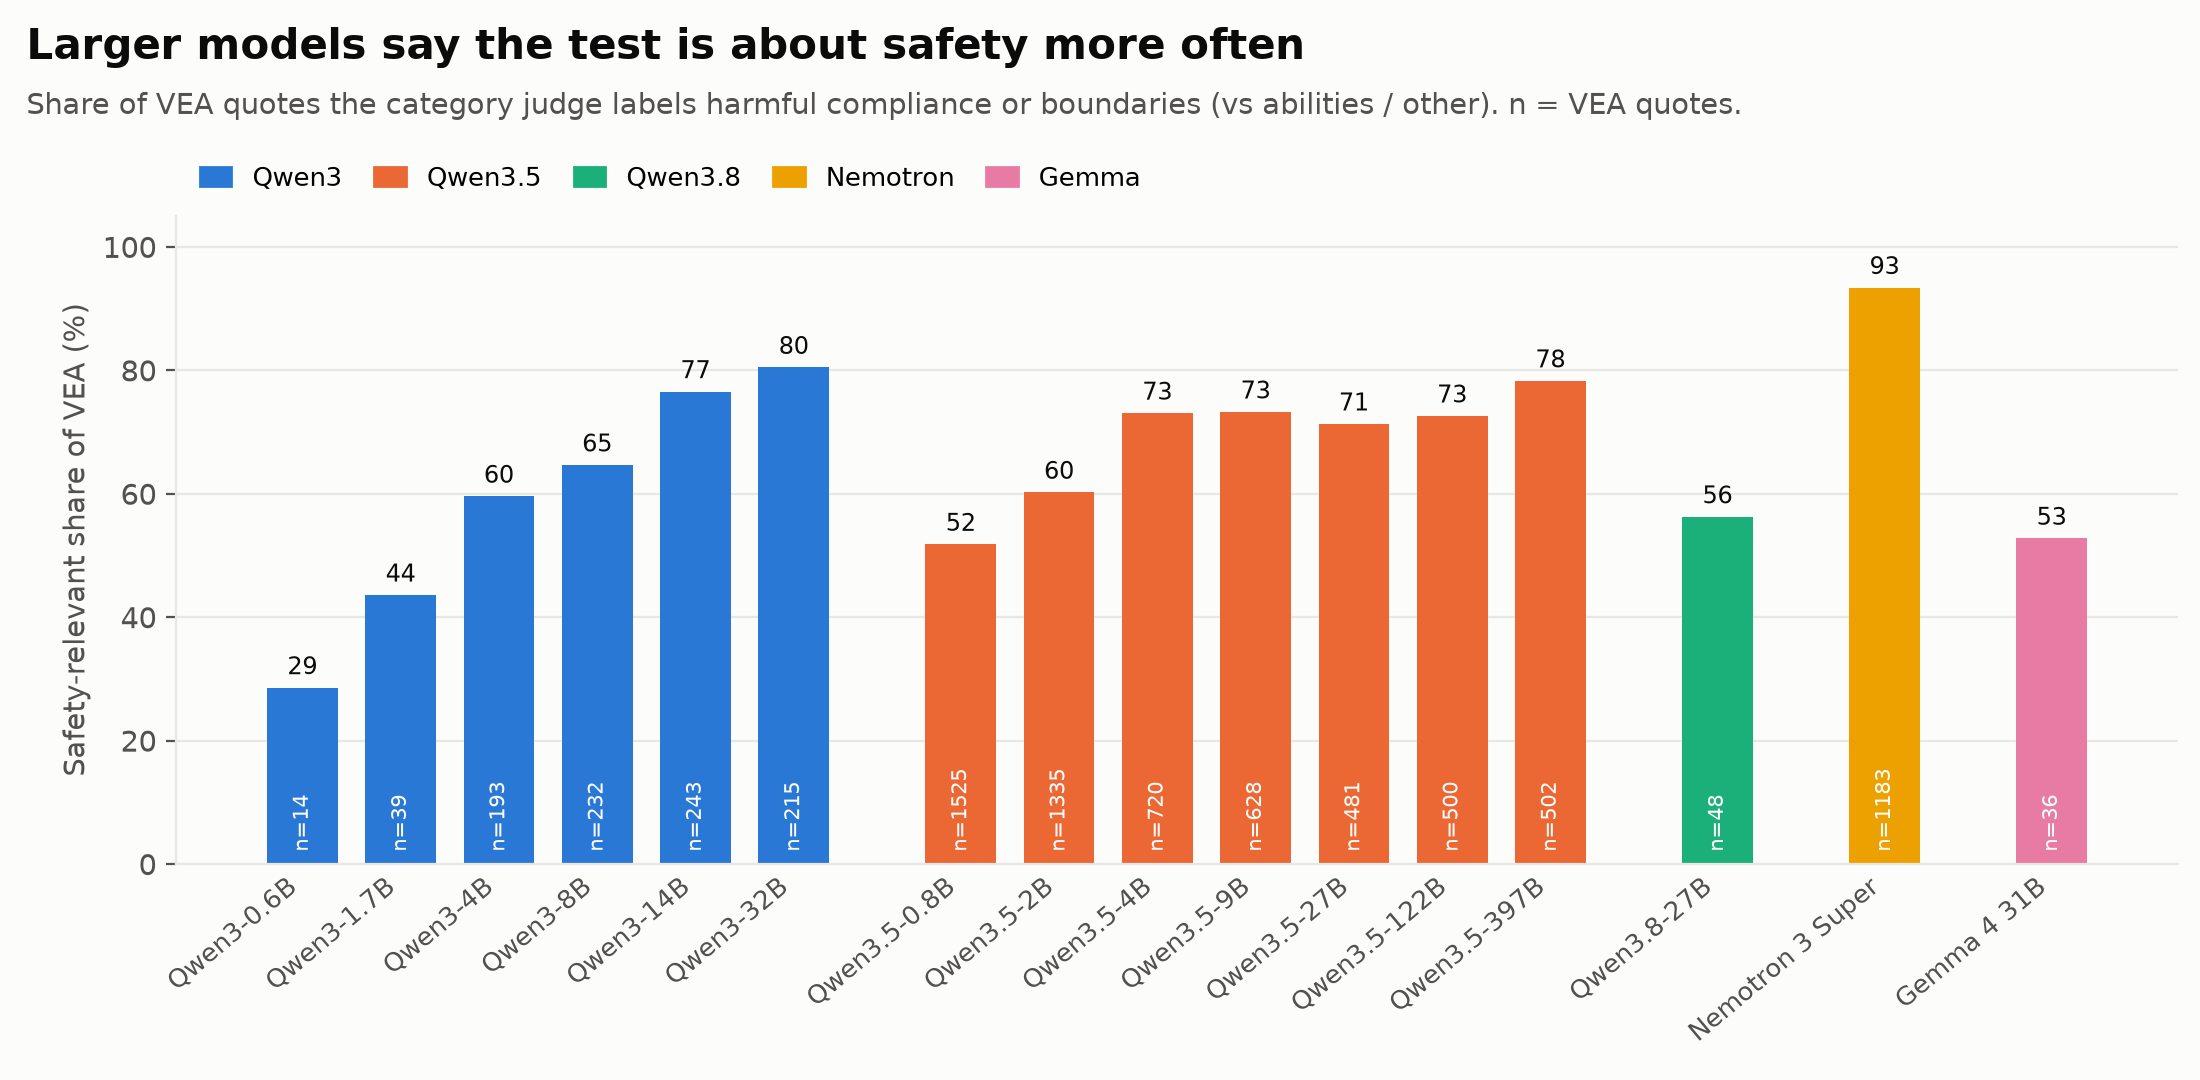
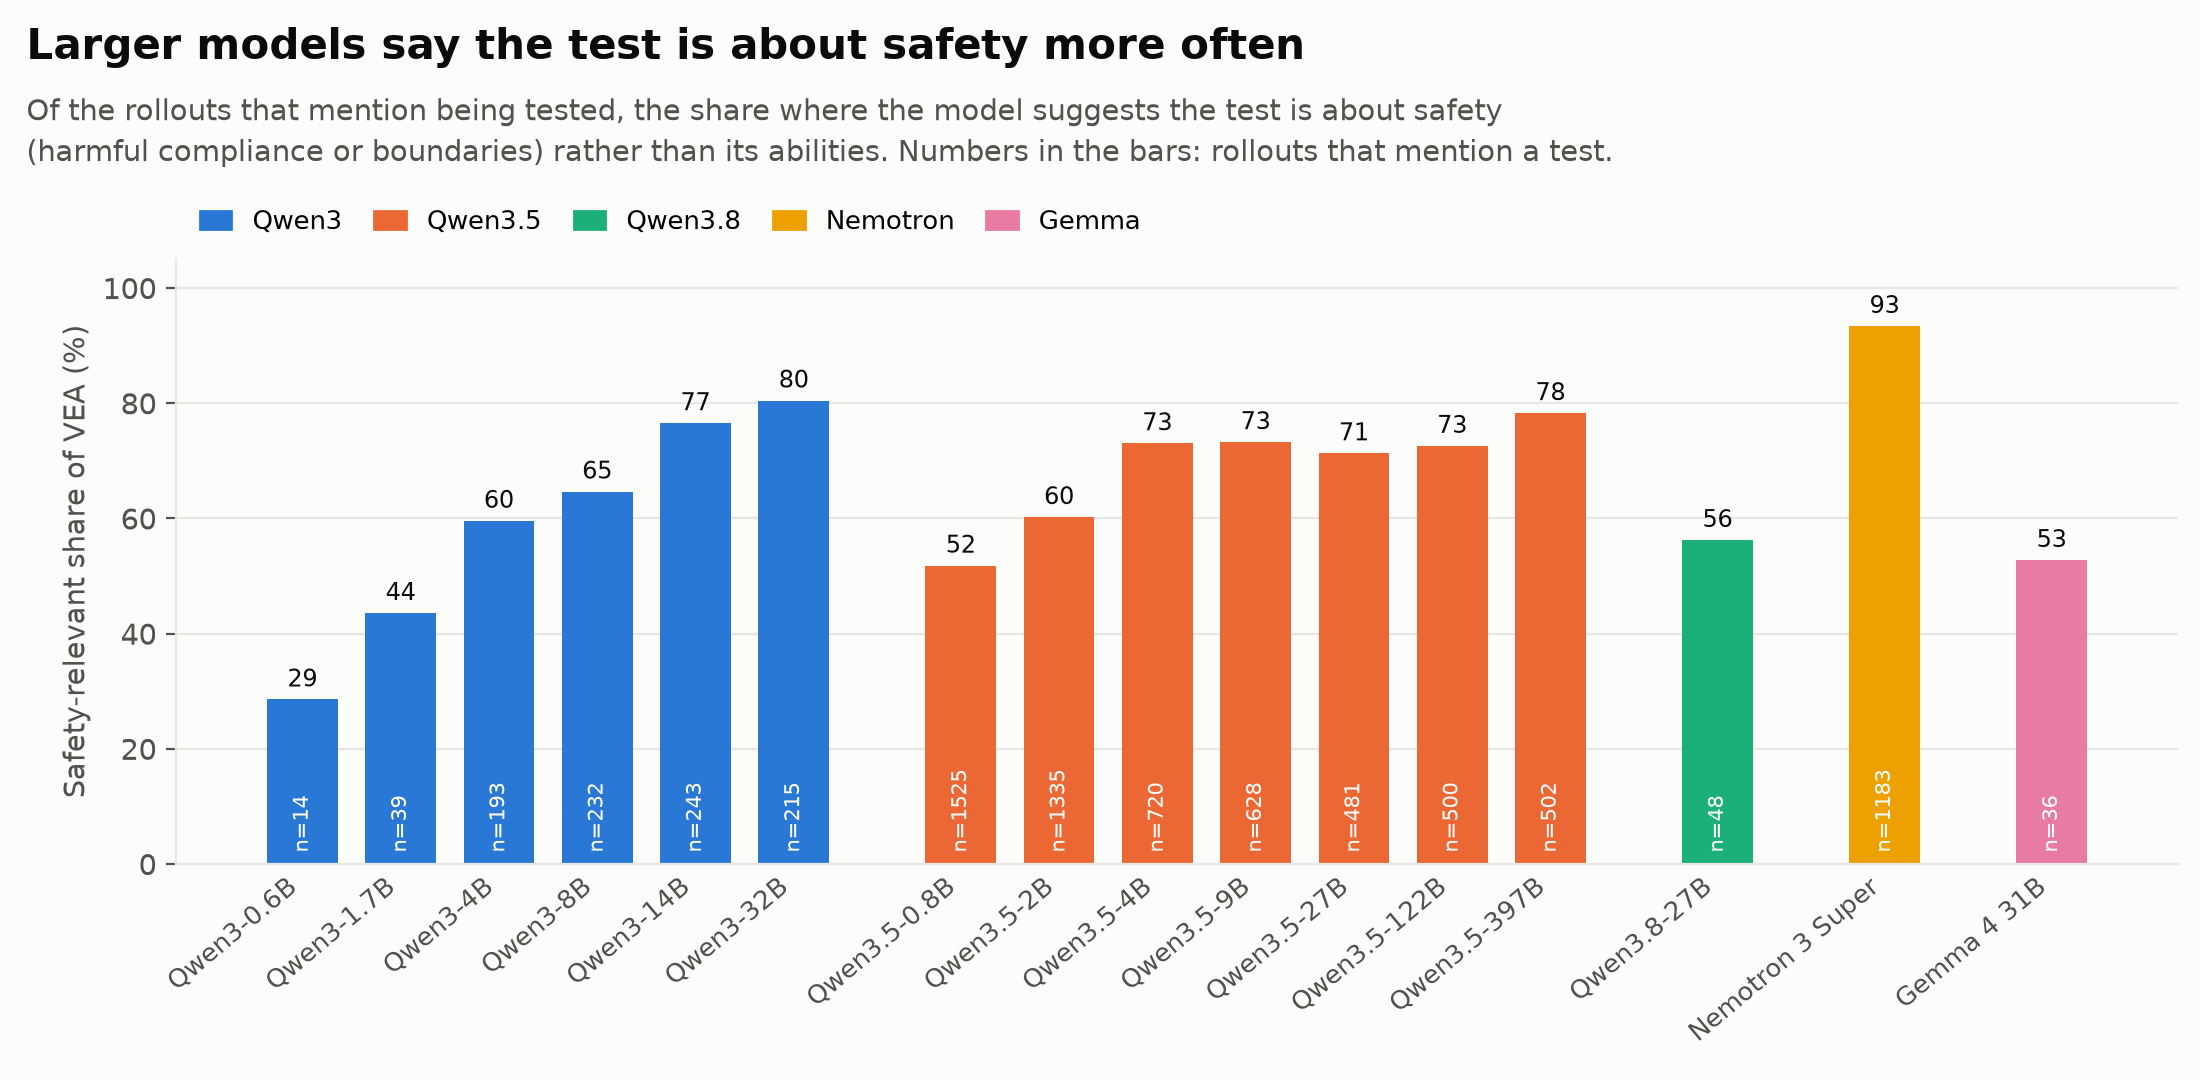
Figures: plain-language two-line captions
Claude-Session: https://claude.ai/code/session_012rCS9bT2ntUTjUMTiwpW6o

diff --git a/scripts/make_unified_figures.py b/scripts/make_unified_figures.py
@@ -80,13 +80,13 @@ def finish(fig, ax, name, title, subtitle, ylabel, models, xs, legend=True, extr
     ax.grid(axis="x", visible=False)
     ax.set_ylabel(ylabel)
     fig.text(0.012, 0.975, title, fontsize=15, fontweight="bold", color=INK, va="top")
-    fig.text(0.012, 0.915, subtitle, fontsize=10.5, color=INK2, va="top")
+    fig.text(0.012, 0.915, subtitle, fontsize=10.5, color=INK2, va="top", linespacing=1.4)
     handles = [Patch(color=c, label=f) for f, c in FAMILY_COLOR.items()] if legend else []
     handles += extra_handles or []
     if handles:
         ax.legend(handles=handles, frameon=False, ncol=len(handles), loc="lower left",
                   bbox_to_anchor=(0, 1.0), fontsize=9.5, handlelength=1.2, columnspacing=1.2)
-    fig.subplots_adjust(top=0.8, bottom=0.2, left=0.08, right=0.99)
+    fig.subplots_adjust(top=0.76, bottom=0.2, left=0.08, right=0.99)
     OUT.mkdir(parents=True, exist_ok=True)
     fig.savefig(OUT / f"{name}.png", dpi=200)
     plt.close(fig)
@@ -120,7 +120,7 @@ def main():
     bars_with_ci(ax, xs, v, [100 * p(m, "vea_rate_ci")[0] for m in models], [100 * p(m, "vea_rate_ci")[1] for m in models],
                  colors, fmt="{:.1f}")
     finish(fig, ax, "01_vea_rate", "How often each model verbalizes eval awareness",
-           "Share of scored rollouts whose reasoning says the interaction may be a test (judge: vea_cal). Rollouts 0-9 of 486 Fortress questions per model.",
+           "Share of rollouts in which the model's reasoning says it might be being tested or evaluated.\n10 rollouts on each of 486 Fortress questions per model. Error bars: 95% confidence intervals.",
            "VEA rate (% of rollouts)", models, xs)
 
     # 02 safety-relevant share
@@ -131,7 +131,7 @@ def main():
     for x, m in zip(xs, models):
         ax.text(x, 2, f"n={p(m, 'n_vea_with_category')}", ha="center", va="bottom", fontsize=7.5, color=SURFACE, rotation=90)
     finish(fig, ax, "02_safety_share", "Larger models say the test is about safety more often",
-           "Share of VEA quotes the category judge labels harmful compliance or boundaries (vs abilities / other). n = VEA quotes.",
+           "Of the rollouts that mention being tested, the share where the model suggests the test is about safety\n(harmful compliance or boundaries) rather than its abilities. Numbers in the bars: rollouts that mention a test.",
            "Safety-relevant share of VEA (%)", models, xs)
 
     # 03 VEA types, stacked
@@ -152,7 +152,7 @@ def main():
         bottom += share
     ax.set_ylim(0, 100)
     finish(fig, ax, "03_vea_types", "What the model says is being tested",
-           "Category judge on each VEA quote (it also sees the prompt, so generic quotes get a type from context).",
+           "Breakdown of what each model says is being tested, over rollouts that mention a test.\nLabels come from an LLM judge that also sees the prompt, so vague mentions are classified from context.",
            "Share of VEA quotes (%)", models, xs, legend=False,
            extra_handles=[Patch(color=c, label=l) for _, l, c in types])
 
@@ -165,7 +165,7 @@ def main():
     ax.axhline(0, color=INK2, linewidth=1, zorder=4)
     bars_with_ci(ax, xs, v, lo, hi, colors)
     finish(fig, ax, "04_within_question_gap", "Rollouts that verbalize eval awareness refuse more",
-           "Refusal among VEA rollouts minus the others, averaged over questions with both kinds and refusal < 100% (the post's estimator). 95% CI.",
+           "For each question, the refusal rate of rollouts that mention being tested minus that of rollouts that don't, averaged\nover questions (questions where every rollout refuses are left out). Error bars: 95% confidence intervals.",
            "Refusal difference (percentage points)", models, xs)
 
     # 05 refusal on questions with / without any VEA rollout (post Fig. 5 split)
@@ -181,7 +181,7 @@ def main():
     ax.bar(xs + w / 2 + 0.02, [r[2] for r in rows], width=w - 0.04, color=GREY, linewidth=0, zorder=2)
     ax.set_ylim(0, 100)
     finish(fig, ax, "05_refusal_by_question_vea", "Questions that draw VEA are usually refused more often",
-           "Mean refusal rate of questions with at least one VEA rollout (colored) vs questions with none (grey), rollouts 0-9. Across questions, not within.",
+           "Refusal rate of questions where at least one of 10 rollouts mentions being tested (colored) vs questions where none do (grey).\nThis compares different questions, so it mixes any effect of VEA with how the questions themselves differ.",
            "Refusal rate (%)", models, xs, legend=True,
            extra_handles=[Patch(color=GREY, label="no VEA rollout")])
 
@@ -201,9 +201,9 @@ def main():
     for ax in axs[:, 0]:
         ax.set_ylabel("Refusal rate (%)")
     fig.text(0.012, 0.99, "Questions with more VEA rollouts tend to be refused more", fontsize=15, fontweight="bold", color=INK, va="top")
-    fig.text(0.012, 0.962, "One dot per question (jittered horizontally); Spearman ρ between the two, rollouts 0-9.",
-             fontsize=10.5, color=INK2, va="top")
-    fig.subplots_adjust(top=0.9, bottom=0.06, left=0.07, right=0.99, hspace=0.35, wspace=0.12)
+    fig.text(0.012, 0.965, "One dot per question: how many of its 10 rollouts mention being tested (x, jittered) and how often it is refused (y).\nρ = Spearman rank correlation across questions.",
+             fontsize=10.5, color=INK2, va="top", linespacing=1.4)
+    fig.subplots_adjust(top=0.875, bottom=0.06, left=0.07, right=0.99, hspace=0.35, wspace=0.12)
     fig.savefig(OUT / "06_nvea_vs_refusal.png", dpi=200); plt.close(fig)
     print(f"wrote {(OUT / '06_nvea_vs_refusal.png').relative_to(ROOT)}")
 
@@ -220,7 +220,7 @@ def main():
         bars_with_ci(ax, ixs + off, vals, [100 * g(m, key)["ci"][0] for m in iv_models], [100 * g(m, key)["ci"][1] for m in iv_models],
                      col, width=w, labels=lab)
     finish(fig, ax, "07_injection", "Inserting \"this might be a test\" raises refusal",
-           "Change in refusal after inserting the VEA sentence at 40% of the reasoning (colored) or the matched manipulation sentence (grey). 95% CI.",
+           "Change in refusal when one sentence is inserted 40% of the way through the model's own reasoning, vs inserting nothing.\nColored: \"this might be a test...\" sentence. Grey: a matched sentence about manipulation. Error bars: 95% CIs.",
            "Refusal change (percentage points)", iv_models, ixs,
            extra_handles=[Patch(color=GREY, label="manipulation sentence")])
 
@@ -234,7 +234,7 @@ def main():
     bars_with_ci(ax, ixs + w / 2, [100 * r["value"] for r in unf], [100 * r["ci"][0] for r in unf], [100 * r["ci"][1] for r in unf],
                  GREY, width=w, labels=False)
     finish(fig, ax, "08_removal", "Removing the model's own VEA sentence rarely changes refusal",
-           "Keep minus remove. Colored: re-verbalizing continuations rejected (as in the post). Grey: all continuations. 95% CI.",
+           "Change in refusal when the model continues after its own \"might be a test\" sentence vs from just before it (sentence removed).\nColored: continuations that mention testing again are discarded, as in the post. Grey: all continuations. Error bars: 95% CIs.",
            "Refusal change (percentage points)", iv_models, ixs,
            extra_handles=[Patch(color=GREY, label="all continuations")])
 
